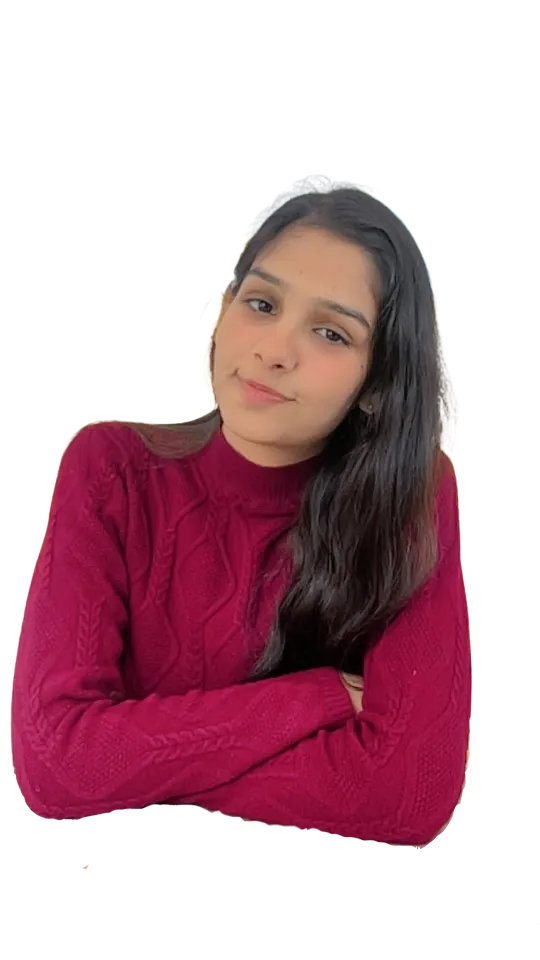
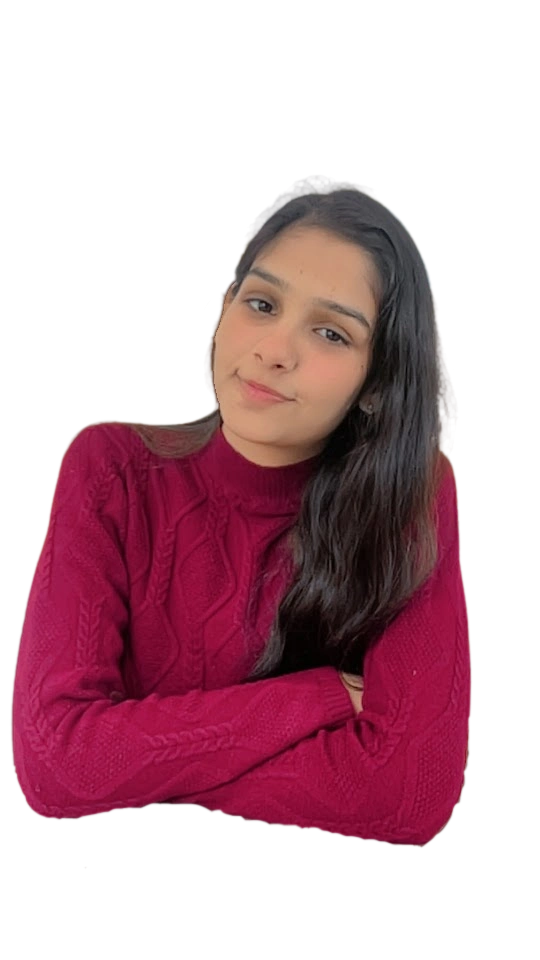
style: refine mobile hero portrait integration and spacing

diff --git a/src/index.css b/src/index.css
@@ -206,23 +206,44 @@ button {
 
 @media (max-width: 640px) {
   .target-nav-container {
-    padding-left: 16px;
-    padding-right: 16px;
+    padding-left: 14px;
+    padding-right: 14px;
   }
   .target-nav-wordmark {
-    font-size: 0.95rem;
+    font-size: 0.9rem;
+    letter-spacing: 0.06em;
   }
   .target-nav-pill {
-    gap: 14px;
-    padding: 6px 16px;
+    gap: 12px;
+    padding: 6px 14px;
   }
   .target-pill-link {
-    font-size: 0.8rem;
-    min-height: 44px;
+    font-size: 0.78rem;
+    min-height: 40px;
   }
   .target-nav-connect {
-    font-size: 0.88rem;
-    min-height: 44px;
+    font-size: 0.84rem;
+    min-height: 40px;
+  }
+}
+
+@media (max-width: 400px) {
+  .target-nav-container {
+    padding-left: 10px;
+    padding-right: 10px;
+  }
+  .target-nav-wordmark {
+    font-size: 0.82rem;
+  }
+  .target-nav-pill {
+    gap: 10px;
+    padding: 5px 12px;
+  }
+  .target-pill-link {
+    font-size: 0.74rem;
+  }
+  .target-nav-connect {
+    font-size: 0.8rem;
   }
 }
 
@@ -252,20 +273,7 @@ button {
   box-sizing: border-box;
 }
 
-@media (max-width: 768px) {
-  .ref-hero {
-    padding: calc(var(--nav-height) + 16px) clamp(20px, 5vw, 24px) 36px;
-    background-image: 
-      linear-gradient(to bottom, transparent 55%, var(--black) 98%),
-      linear-gradient(
-        to bottom,
-        var(--burgundy) 0%,
-        var(--burgundy-deep) 40%,
-        var(--black) 80%,
-        var(--black) 100%
-      );
-  }
-}
+
 
 /* Portrait Cutout Wrapper */
 .ref-hero-portrait-wrap {
@@ -311,28 +319,7 @@ button {
   }
 }
 
-@media (max-width: 768px) {
-  .ref-hero-portrait-wrap {
-    mask-image: linear-gradient(to bottom, black 50%, transparent 100%);
-    -webkit-mask-image: linear-gradient(to bottom, black 50%, transparent 100%);
-  }
-  .ref-hero-portrait-img {
-    position: absolute;
-    right: 50%;
-    transform: translateX(50%);
-    top: auto;
-    bottom: -20px;
-    width: auto;
-    height: 58svh;
-    max-width: 360px;
-    object-fit: cover;
-    object-position: center top;
-    opacity: 0.38;
-    filter: brightness(0.85) contrast(1.05);
-    mask-image: linear-gradient(to bottom, black 55%, transparent 100%);
-    -webkit-mask-image: linear-gradient(to bottom, black 55%, transparent 100%);
-  }
-}
+
 
 /* Content Container */
 .ref-hero-inner {
@@ -358,13 +345,7 @@ button {
   max-width: 760px;
 }
 
-@media (max-width: 768px) {
-  .ref-hero-headline-block {
-    margin-top: 10px;
-    margin-bottom: 0;
-    padding-top: 10px;
-  }
-}
+
 
 .ref-hero-kicker {
   font-family: var(--font-mono);
@@ -562,28 +543,168 @@ button {
 }
 
 @media (max-width: 768px) {
+  .ref-hero {
+    min-height: auto;
+    display: flex;
+    flex-direction: column;
+    justify-content: flex-start;
+    padding: calc(var(--nav-height) + 16px) clamp(20px, 5vw, 24px) 56px;
+    background-image: 
+      linear-gradient(to bottom, transparent 65%, var(--black) 100%),
+      linear-gradient(
+        to bottom,
+        var(--burgundy) 0%,
+        var(--burgundy-deep) 35%,
+        var(--black) 70%,
+        var(--black) 100%
+      );
+  }
+
+  .custom-cursor-root {
+    display: none !important;
+  }
+
+  /* Flatten content container so flex ordering can place portrait cleanly between headline and copy */
+  .ref-hero-inner {
+    display: contents;
+  }
+
+  /* 1. Headline Block at top */
+  .ref-hero-headline-block {
+    order: 1;
+    margin: 0;
+    padding: 12px 0 0 0;
+    max-width: 100%;
+  }
+
+  /* Generous vertical spacing after availability badge so portrait sits distinctly lower */
+  .ref-hero-availability {
+    margin-top: 16px;
+    margin-bottom: clamp(28px, 5vh, 40px);
+  }
+
+  /* 2. Portrait Cutout seamlessly integrated with ambient illumination & soft fades */
+  .ref-hero-portrait-wrap {
+    order: 2;
+    position: relative;
+    inset: auto;
+    width: 100%;
+    display: flex;
+    justify-content: center;
+    align-items: flex-end;
+    margin: 4px 0 clamp(24px, 4.5vh, 36px) 0;
+    overflow: visible;
+    pointer-events: auto;
+    mask-image: none;
+    -webkit-mask-image: none;
+  }
+
+  /* Soft ambient burgundy illumination behind portrait */
+  .ref-hero-portrait-wrap::before {
+    content: '';
+    position: absolute;
+    top: 5%;
+    left: 50%;
+    transform: translateX(-50%);
+    width: 100%;
+    max-width: 320px;
+    height: 90%;
+    background: radial-gradient(
+      ellipse at 50% 45%,
+      rgba(90, 18, 35, 0.42) 0%,
+      rgba(42, 7, 16, 0.25) 48%,
+      transparent 72%
+    );
+    filter: blur(24px);
+    pointer-events: none;
+    z-index: 0;
+  }
+
+  /* Subtle bottom vignette to ensure seamless transition to black background */
+  .ref-hero-portrait-wrap::after {
+    content: '';
+    position: absolute;
+    left: 0;
+    right: 0;
+    bottom: -2px;
+    height: 28%;
+    background: linear-gradient(
+      to bottom,
+      transparent 0%,
+      rgba(11, 7, 8, 0.5) 60%,
+      var(--black) 100%
+    );
+    pointer-events: none;
+    z-index: 2;
+  }
+
+  .ref-hero-portrait-img {
+    position: relative;
+    right: auto;
+    left: auto;
+    top: auto;
+    bottom: auto;
+    transform: none;
+    width: 100%;
+    max-width: min(84vw, 300px);
+    height: auto;
+    max-height: 46svh;
+    object-fit: contain;
+    object-position: center bottom;
+    opacity: 0.98;
+    filter: 
+      brightness(0.97)
+      contrast(1.02)
+      drop-shadow(0 10px 24px rgba(11, 7, 8, 0.8))
+      drop-shadow(0 2px 8px rgba(74, 14, 27, 0.3));
+    mask-image: linear-gradient(to bottom, black 0%, black 72%, rgba(0, 0, 0, 0.85) 86%, transparent 100%);
+    -webkit-mask-image: linear-gradient(to bottom, black 0%, black 72%, rgba(0, 0, 0, 0.85) 86%, transparent 100%);
+    display: block;
+    margin: 0 auto;
+    z-index: 1;
+  }
+
+  /* 3. Bio Description and CTA Buttons cleanly positioned below portrait */
   .ref-hero-bottom-row {
+    order: 3;
+    position: relative;
+    width: 100%;
+    margin-top: 0;
+    padding: 0;
+    display: flex;
     flex-direction: column;
     align-items: flex-start;
-    gap: 16px;
+    gap: 18px;
     background: transparent;
     border: none;
-    padding: 20px 0 12px;
-    margin-top: 16px;
-    width: 100%;
-    z-index: 3;
-    position: relative;
+    z-index: 2;
   }
+
   .ref-hero-bottom-left {
     max-width: 100%;
-    background-color: rgba(11, 7, 8, 0.75);
-    padding: 12px 14px;
-    border-left: 2px solid var(--burgundy);
+    background-color: transparent;
+    padding: 0;
+    border-left: none;
+    display: flex;
+    flex-direction: column;
+    gap: 16px;
   }
+
   .ref-hero-bio {
-    font-size: 14px;
+    font-size: 15.5px;
+    line-height: 1.6;
+    color: rgba(239, 230, 214, 0.88);
     max-width: 100%;
   }
+
+  .ref-hero-cta-group {
+    display: flex;
+    flex-wrap: wrap;
+    align-items: center;
+    gap: 14px;
+    margin-top: 2px;
+  }
+
   .ref-hero-bottom-right {
     display: none;
   }
